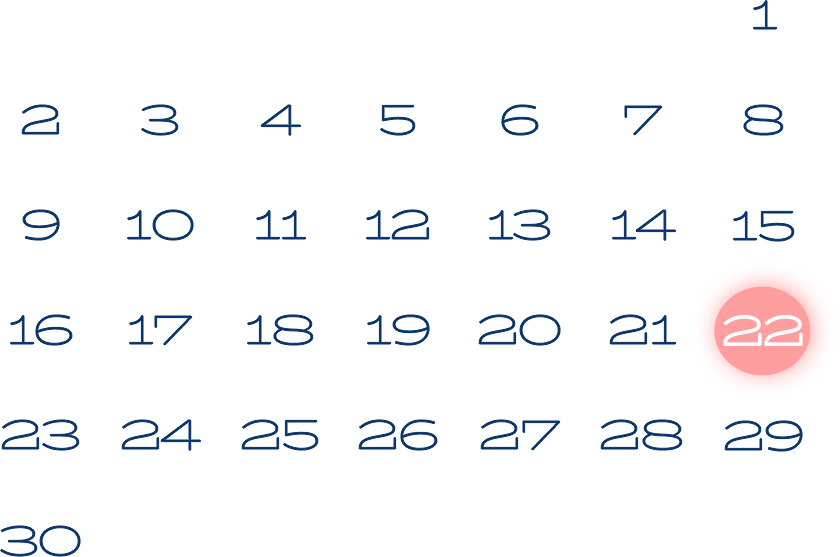
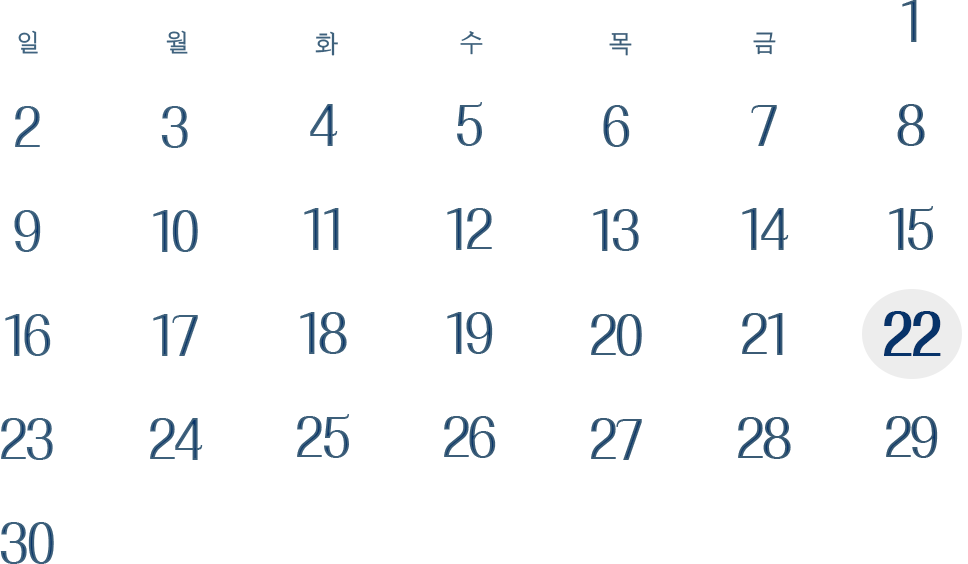
Change :: calendar 영역 개선

diff --git a/src/components/WeddingDay.vue b/src/components/WeddingDay.vue
@@ -9,8 +9,18 @@
       <div></div>
     </div>
     <div class="day-card">
-      hihi
-      <!--      <div class="calendar"/>-->
+      <div class="day-card-title">
+        <div class="day-card-upper">
+          <!--          <span class="year">2024</span>-->
+          <span class="month">2024년 6월 22일 토요일</span>
+          <!--          <span class="week">[토요일]</span>-->
+        </div>
+        <div class="day-card-lower">
+          <span class="time">12:40</span>
+          <span class="place">더파티움 여의도 B1 그랜드컨벤션 홀</span>
+        </div>
+      </div>
+
       <img class="calendar" src="./../assets/image/calendar.png"/>
     </div>
   </div>
@@ -146,28 +156,75 @@
 
 
   .day-card {
-    //background: black;
-    padding: 40px 20px;
+    display: flex;
+    flex-direction: column;
+    align-items: center;
+    padding: 30px 10px;
     width: 100%;
     max-width: calc(100% - 80px);
-    font-size: 1.4rem;
-    
+    font-size: 2.0rem;
+    font-family: leferi-special;
+    //font-family: GowunBatang-Regular;
+    //font-family: 'Nanum Myeongjo';
+    color: $dark-color-1;
+
 
     @include tablet {
-      font-size: 1.6rem;
+      //font-size: 1.6rem;
       width: 100%;
     }
     @include desktop {
-      font-size: 2rem;
+      //font-size: 2rem;
       width: 100%;
       max-width: 1200px;
     }
 
+
+    .day-card-title {
+      background: white;
+      border-radius: 40px;
+      text-align: center;
+      width: 90%;
+
+      .day-card-upper {
+        font-weight: bold;
+
+        .year {
+          writing-mode: vertical-rl;
+          transform: rotate(180deg);
+          font-size: 32%;
+          font-weight: bold;
+          padding-left: 4px;
+
+        }
+
+        .month {
+          font-size: 100%;
+          padding-right: 16px;
+
+        }
+
+        .week {
+          font-size: 40%;
+        }
+      }
+
+      .day-card-lower {
+        .time {
+          padding-right: 16px;
+          font-size: 100%;
+        }
+
+        .place {
+          font-size: 40%;
+        }
+      }
+    }
+
     .calendar {
-      //background: center / cover no-repeat url("../assets/image/calendar.png");
-      //height: 50vw;
+      margin-top: 20px;
       width: 100%;
-      max-width: 800px;
+      max-width: 600px;
     }
   }
 

diff --git a/src/components/WeddingTitle.vue b/src/components/WeddingTitle.vue
@@ -32,9 +32,6 @@
 
 
 <style lang="scss" scoped>
-
-//@import "@/assets/style/_mixins.scss";
-
 .wedding-title {
   display: flex;
   flex-direction: column;
@@ -42,7 +39,7 @@
   text-align: center;
   background: white;
   margin: 40px 20px;
-  color: #073369;
+  color: $dark-color-1;
   @include tablet {
     margin: 40px 30px;
 
@@ -61,7 +58,7 @@
   .title-card {
     position: relative;
     top: -16px;
-    border: 2px solid #79a6dd;
+    border: 2px solid $light-color-1;
     border-radius: 40px 40px 0 40px;
     width: 100%;
     padding: 40px 20px;
@@ -102,7 +99,7 @@
         .name {
           /*color: red;*/
           font-family: leferi-special;
-          color: #073369;
+          color: $dark-color-1;
           font-size: 20px;
           font-weight: normal;
         }

diff --git a/src/assets/main.scss b/src/assets/main.scss
@@ -18,6 +18,23 @@
   font-style: normal;
 }
 
+@font-face {
+  font-family: 'GowunBatang-Regular';
+  src: url('https://cdn.jsdelivr.net/gh/projectnoonnu/noonfonts_2108@1.1/GowunBatang-Regular.woff') format('woff');
+  font-weight: normal;
+  font-style: normal;
+}
+
+@font-face {
+  font-family: 'Chosunilbo_myungjo';
+  src: url('https://cdn.jsdelivr.net/gh/projectnoonnu/noonfonts_one@1.0/Chosunilbo_myungjo.woff') format('woff');
+  font-weight: normal;
+  font-style: normal;
+}
+
+@import url(//fonts.googleapis.com/earlyaccess/nanummyeongjo.css);
+
+
 html {
   font-size: 62.5%;
 }

diff --git a/src/components/WeddingPay.vue b/src/components/WeddingPay.vue
@@ -17,7 +17,7 @@
   color: #9e37d9;
 
   .pay-card {
-    background: #073369;
+    background: $dark-color-1;
     border-radius: min(300px, 50vw) min(300px, 50vw) 0 0;
     height: 500px;
     text-align: center;

diff --git a/src/assets/style/_variable.scss b/src/assets/style/_variable.scss
@@ -1,0 +1,2 @@
+$light-color-1: #79a6dd;
+$dark-color-1: #073369;
